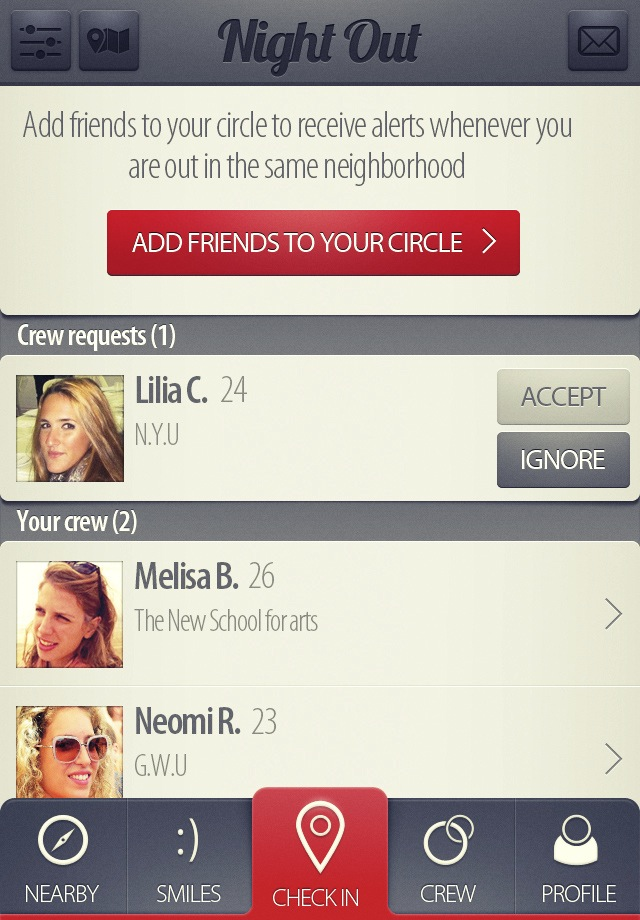
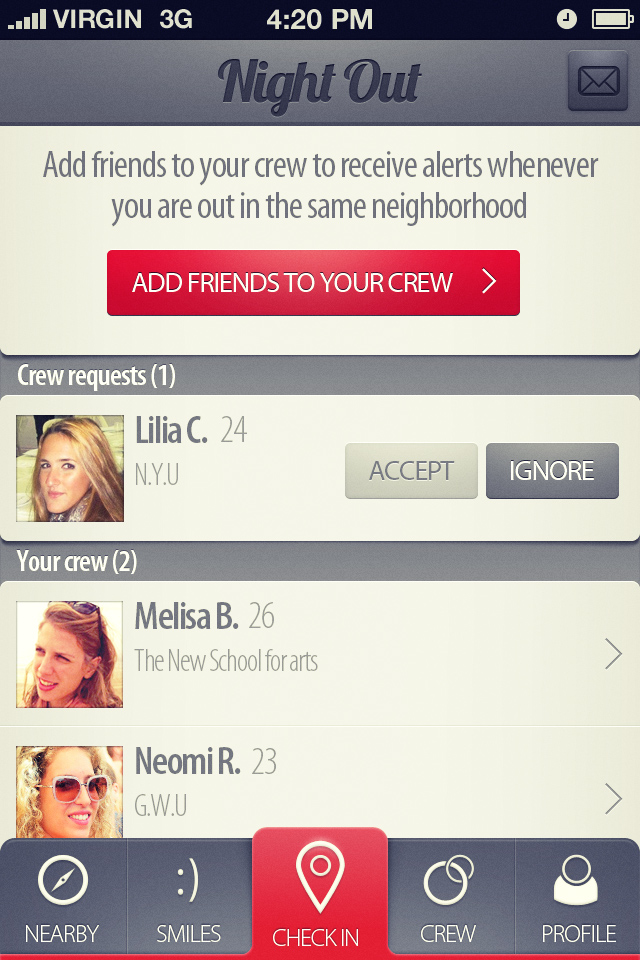
updated designs and clickable regions

diff --git a/www/app.js b/www/app.js
@@ -50,8 +50,9 @@ Ext.application({
                 id: 'nearby',
                 regions: {
                     filters: top.filters, maps: top.maps, messages: top.messages,
-                    nearby: bottom.nearby, smiles: bottom.smiles, checkin: bottom.checkin, crew: bottom.crew, myprofile: bottom.myprofile
-                }
+                    nearby: bottom.nearby, smiles: bottom.smiles, checkin: bottom.checkin, crew: bottom.crew, myprofile: bottom.myprofile,
+                	profile: {left: 233, top: 408, width: 179, height: 179}
+				}
             },
 
             {
@@ -94,7 +95,63 @@ Ext.application({
             },
 
             {
+                id: 'smiles',
+                regions: {
+                    filters: top.back, messages: top.messages,
+					nearby: bottom.nearby, smiles: bottom.smiles, checkin: bottom.checkin, crew: bottom.crew, myprofile: bottom.myprofile,
+					
+                    smilesreceived: {left: 0, top: 251, width: 640, height: 147},
+ 					smilessent: {left: 0, top: 396, width: 640, height: 147},
+					smilematches: {left: 0, top: 544, width: 640, height: 147},
+                }
+            },
+
+			{
+                id: 'smilesreceived',
+                regions: {
+                    back: {left: 4, top: 5, width: 150, height: 67, goto: 'smiles'},
+
+					smilegame: {left: 42, top: 275, width: 169, height: 226},
+                }
+            },
+			
+			{
+                id: 'smilessent',
+                regions: {
+                    back: {left: 4, top: 5, width: 150, height: 67, goto: 'smiles'}
+                }
+            },
+
+			{
+                id: 'smilematches',
+                regions: {
+                    back: {left: 4, top: 5, width: 150, height: 67, goto: 'smiles'}
+                }
+            },
+
+			{
+                id: 'smilegame',
+                regions: {
+                    back: {left: 4, top: 5, width: 150, height: 67, goto: 'smilesreceived'}
+                }
+            },
+
+            {
                 id: 'filters',
+                regions: {
+                    back: top.back
+                }
+            },
+
+            {
+                id: 'maps',
+                regions: {
+                    back: top.back
+                }
+            },
+
+			{
+                id: 'profile',
                 regions: {
                     back: top.back
                 }
